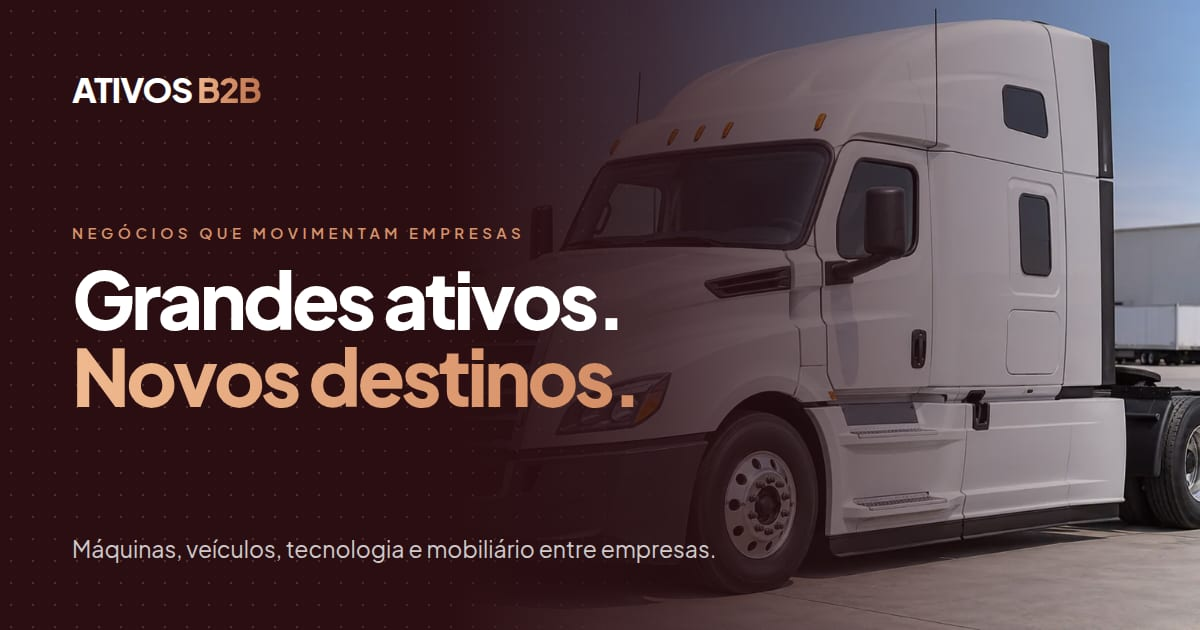
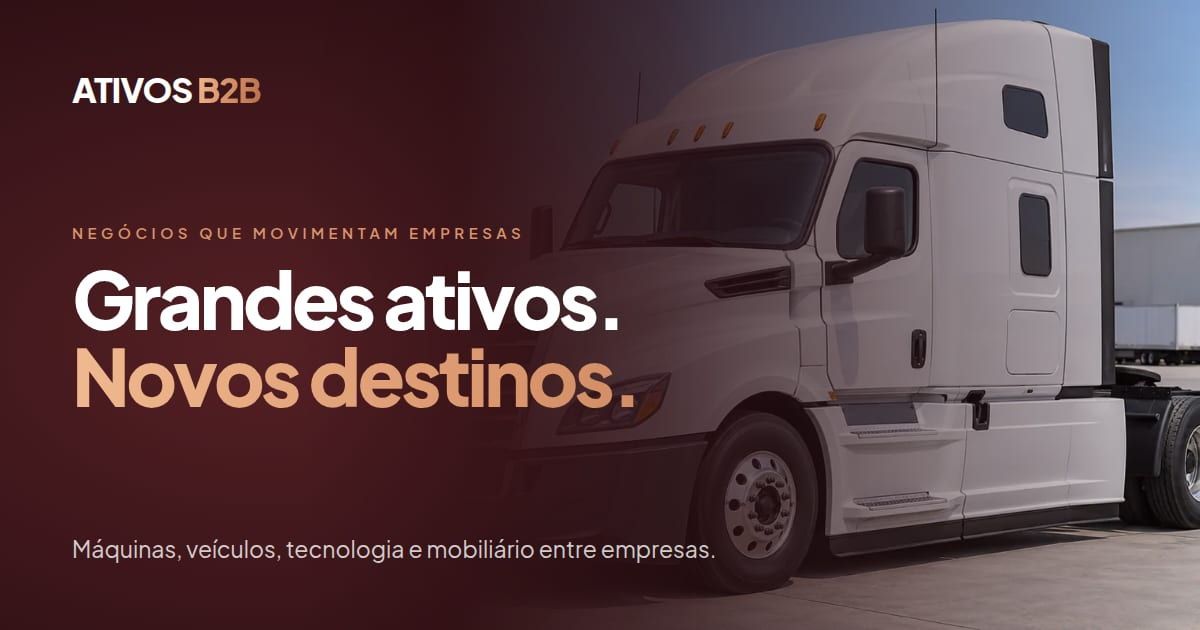
Replace dot grid with a single-colour wine gradient
Every wine band now sits on a soft radial gradient of one fixed colour
(#6B2A2F at varying alpha) that fades before the edges, so neighbouring
bands still meet without a seam. The scattered dot grid is gone from the
hero, state map, companies band, menu and phone layouts. The dotted Brazil
with routes stays only on inner-page intros, the seller sign-up band and the
footer, on desktop.

Claude-Session: https://claude.ai/code/session_0128iv6EyZ438R1rcYkipHrG

Changed region(s): [[0.0, 0.2714, 0.37, 0.8143], [0.1542, 0.8444, 0.2467, 0.8746]]

diff --git a/components/brand/Backdrop.tsx b/components/brand/Backdrop.tsx
@@ -1,24 +1,27 @@
 /**
- * Fundo das faixas em vinho, em duas versões:
+ * Fundo das faixas em vinho.
  *
- * - "rotas": o Brasil em retícula de pontos cruzado por rotas pontilhadas
- *   entre os estados com lotes — ativos seguindo para novos destinos. O
- *   arquivo vem de scripts/generate-backdrop.mjs.
- * - "pontos": só a malha fina de pontos, para onde já há foto ou mapa e o
- *   desenho completo competiria com o conteúdo.
+ * A base é sempre um degradê de uma cor fixa — o vinho `#6B2A2F` em
+ * transparências diferentes sobre o vinho profundo da faixa —, um brilho
+ * suave atrás do texto que some antes das bordas. Por sumir antes das
+ * bordas, duas faixas vizinhas nunca mostram emenda.
  *
- * Nas rotas, o desenho só começa a aparecer do meio da faixa para a direita,
- * para que as linhas nunca cruzem títulos e textos, que ficam à esquerda. No
- * celular, onde o texto ocupa a largura toda, as rotas dão lugar aos pontos.
+ * `variant="rotas"` acrescenta, em telas médias e grandes, o Brasil em
+ * retícula com rotas pontilhadas entre os estados com lotes (arquivo de
+ * scripts/generate-backdrop.mjs). O desenho só aparece do meio da faixa para
+ * a direita, para nunca cruzar títulos e textos. No celular fica só o
+ * degradê.
  *
- * `fade` dissolve o fundo nas bordas: "edges" (padrão) apaga em cima e
- * embaixo, para que faixas vizinhas nunca mostrem emenda; "left" mantém o
- * desenho só à esquerda, onde a abertura tem texto e não foto; "none" deixa
- * o desenho inteiro.
+ * `fade="left"` prende o degradê à esquerda, nas aberturas com foto à
+ * direita, para não tingir a fotografia.
  *
- * O caminho entra por estilo inline, e não em CSS, porque precisa do
+ * O caminho do SVG entra por estilo inline, e não em CSS, porque precisa do
  * basePath da publicação no GitHub Pages.
  */
+const WINE = "107, 42, 47"; // #6B2A2F, brand-600
+
+const GLOW = `radial-gradient(ellipse 70% 58% at 28% 50%, rgba(${WINE}, .6), rgba(${WINE}, 0))`;
+
 const MASKS = {
   edges: "linear-gradient(180deg, transparent, #000 18%, #000 82%, transparent)",
   left: "linear-gradient(90deg, #000 20%, transparent 62%)",
@@ -27,56 +30,49 @@ const MASKS = {
 
 const CLEAR_TEXT_SIDE = "linear-gradient(90deg, transparent 18%, #000 50%)";
 
-const DOTS = "radial-gradient(circle, rgba(224,164,124,.2) 1px, transparent 1.4px)";
+function masked(masks: (string | undefined)[]) {
+  const list = masks.filter((m): m is string => Boolean(m));
+  if (!list.length) return {};
+  const mask = list.join(", ");
+  return {
+    maskImage: mask,
+    WebkitMaskImage: mask,
+    // Várias máscaras valem juntas: só aparece onde todas deixam.
+    maskComposite: "intersect",
+    WebkitMaskComposite: "source-in",
+  };
+}
 
 export function Backdrop({
   className = "",
-  variant = "rotas",
+  variant = "degrade",
   fade = "edges",
 }: {
   className?: string;
-  variant?: "rotas" | "pontos";
+  variant?: "degrade" | "rotas";
   fade?: keyof typeof MASKS;
 }) {
   const base = process.env.NEXT_PUBLIC_BASE_PATH ?? "";
-  const layer = (v: "rotas" | "pontos", extra: string) => {
-    const masks = [MASKS[fade], v === "rotas" ? CLEAR_TEXT_SIDE : undefined].filter(
-      (m): m is string => Boolean(m),
-    );
-    const mask = masks.join(", ");
-    return (
-      <div
-        aria-hidden="true"
-        className={`pointer-events-none absolute inset-0 ${extra} ${className}`}
-        style={{
-          ...(v === "rotas"
-            ? {
-                backgroundImage: `url(${base}/images/rotas.svg)`,
-                backgroundSize: "cover",
-                backgroundPosition: "right center",
-                backgroundRepeat: "no-repeat",
-              }
-            : { backgroundImage: DOTS, backgroundSize: "22px 22px" }),
-          ...(mask
-            ? {
-                maskImage: mask,
-                WebkitMaskImage: mask,
-                // Duas máscaras valem juntas: só aparece onde as duas deixam.
-                maskComposite: "intersect",
-                WebkitMaskComposite: "source-in",
-              }
-            : {}),
-        }}
-      />
-    );
-  };
-
-  if (variant === "pontos") return layer("pontos", "");
-  // No celular o texto ocupa a largura toda: fica só a malha de pontos.
   return (
     <>
-      {layer("pontos", "md:hidden")}
-      {layer("rotas", "hidden md:block")}
+      <div
+        aria-hidden="true"
+        className={`pointer-events-none absolute inset-0 ${className}`}
+        style={{ backgroundImage: GLOW, ...masked([fade === "left" ? MASKS.left : undefined]) }}
+      />
+      {variant === "rotas" && (
+        <div
+          aria-hidden="true"
+          className={`pointer-events-none absolute inset-0 hidden md:block ${className}`}
+          style={{
+            backgroundImage: `url(${base}/images/rotas.svg)`,
+            backgroundSize: "cover",
+            backgroundPosition: "right center",
+            backgroundRepeat: "no-repeat",
+            ...masked([MASKS[fade], CLEAR_TEXT_SIDE]),
+          }}
+        />
+      )}
     </>
   );
 }

diff --git a/app/anunciar/page.tsx b/app/anunciar/page.tsx
@@ -85,7 +85,7 @@ export default function AnunciarPage() {
           <div className="absolute inset-0 bg-gradient-to-t from-brand-900/90 via-transparent to-brand-900/50" />
           <div className="absolute inset-0 bg-brand-900/75 lg:hidden" />
         </div>
-        <Backdrop variant="pontos" fade="left" className="-z-10" />
+        <Backdrop fade="left" className="-z-10" />
 
         <div className="container-content grid gap-12 pb-16 pt-[116px] md:pt-[140px] lg:min-h-[720px] lg:grid-cols-[minmax(0,600px)_minmax(0,1fr)] lg:pb-20">
           <div>
@@ -231,7 +231,7 @@ export default function AnunciarPage() {
         aria-labelledby="titulo-cadastro"
         className="on-dark relative overflow-hidden bg-brand-800 py-16 lg:py-24"
       >
-        <Backdrop />
+        <Backdrop variant="rotas" />
         <BrazilMap className="absolute -left-20 bottom-0 hidden w-[460px] bg-copper-bright/[.1] lg:block" />
         <div className="container-content relative grid items-center gap-10 lg:grid-cols-2 lg:gap-16">
           <div data-reveal>

diff --git a/components/home/CompaniesBand.tsx b/components/home/CompaniesBand.tsx
@@ -32,7 +32,7 @@ export function CompaniesBand() {
       aria-labelledby="titulo-empresas"
       className="on-dark relative overflow-hidden bg-brand-900 py-16 lg:py-24"
     >
-      <Backdrop variant="pontos" />
+      <Backdrop />
       {/* Mesma grade do rodapé logo abaixo: o texto ocupa a primeira coluna e os
           cartões começam exatamente onde começa "Explorar". */}
       <div className="container-content relative grid items-start gap-10 lg:grid-cols-[minmax(0,1.3fr)_repeat(3,minmax(0,.7fr))]">

diff --git a/components/home/Opportunities.tsx b/components/home/Opportunities.tsx
@@ -47,7 +47,7 @@ function SideRail({ side, text, slug }: { side: "left" | "right"; text: string; 
         loading="lazy"
         className="absolute inset-0 size-full object-cover opacity-30 mix-blend-luminosity"
       />
-      <Backdrop variant="pontos" fade="none" />
+      <Backdrop fade="none" />
       <p
         className={`relative mt-14 whitespace-pre-line px-6 text-[11px] font-semibold uppercase leading-5 tracking-[.26em] text-white/75 ${
           side === "right" ? "text-left" : ""

diff --git a/components/home/HeroShowcase.tsx b/components/home/HeroShowcase.tsx
@@ -124,7 +124,7 @@ export function HeroShowcase({ slides }: { slides: ShowcaseSlide[] }) {
         />
         <div className="absolute inset-0 bg-brand-900/70 lg:hidden" />
       </div>
-      <Backdrop variant="pontos" fade="left" className="-z-10" />
+      <Backdrop fade="left" className="-z-10" />
 
       <div className="container-content grid gap-10 pb-36 pt-[116px] md:pt-[140px] lg:min-h-[760px] lg:grid-cols-[minmax(0,560px)_minmax(0,1fr)] lg:pb-40">
         <div className="relative">

diff --git a/components/layout/Footer.tsx b/components/layout/Footer.tsx
@@ -43,7 +43,7 @@ const SOCIAIS = [
 export function Footer() {
   return (
     <footer className="on-dark relative overflow-hidden border-t border-white/[.07] bg-brand-900 text-white/70">
-      <Backdrop className="opacity-60" />
+      <Backdrop variant="rotas" className="opacity-60" />
 
       <div className="container-content relative grid gap-10 pb-10 pt-14 lg:grid-cols-[minmax(0,1.3fr)_repeat(3,minmax(0,.7fr))] lg:pt-20">
         <div>

diff --git a/components/layout/PageIntro.tsx b/components/layout/PageIntro.tsx
@@ -19,7 +19,7 @@ export function PageIntro({
 }) {
   return (
     <section className="on-dark relative overflow-hidden bg-brand-900 text-white">
-      <Backdrop />
+      <Backdrop variant="rotas" />
       <div className="container-content relative pb-10 pt-6 lg:pb-12">
         <nav aria-label="Trilha de navegação" className="text-[13px] text-white/65">
           <Link href="/" className="hover:text-white hover:underline">

diff --git a/components/home/StatesExplorer.tsx b/components/home/StatesExplorer.tsx
@@ -33,7 +33,7 @@ export function StatesExplorer() {
       className="estados on-dark relative overflow-hidden bg-brand-900 py-16 lg:py-24"
     >
       <style dangerouslySetInnerHTML={{ __html: css }} />
-      <Backdrop variant="pontos" />
+      <Backdrop />
 
       <div className="container-content relative grid items-center gap-12 lg:grid-cols-[minmax(0,1fr)_minmax(0,1fr)] lg:gap-16">
         <div>

diff --git a/components/layout/MainMenu.tsx b/components/layout/MainMenu.tsx
@@ -90,7 +90,7 @@ export function MainMenu() {
           id="menu-principal"
           className="fixed inset-x-0 bottom-0 top-[68px] z-40 animate-fade-in overflow-y-auto bg-brand-900 md:top-[76px]"
         >
-          <Backdrop variant="pontos" />
+          <Backdrop />
           <div className="container-content relative py-6">
             <nav aria-label="Principal">
               <ul>

diff --git a/app/loja/[slug]/page.tsx b/app/loja/[slug]/page.tsx
@@ -57,7 +57,7 @@ export default async function LojaPage({ params }: PageProps) {
             <div className="absolute inset-0 bg-brand-900/70 lg:hidden" />
           </div>
         )}
-        <Backdrop variant="pontos" fade="left" className="-z-10" />
+        <Backdrop fade="left" className="-z-10" />
 
         <div className="container-content py-10 lg:py-14">
           <nav

diff --git a/app/lojas/page.tsx b/app/lojas/page.tsx
@@ -34,7 +34,7 @@ export default function LojasPage() {
   return (
     <>
       <section className="on-dark relative overflow-hidden bg-brand-900 py-12 text-white lg:py-16">
-        <Backdrop />
+        <Backdrop variant="rotas" />
         <div className="container-content relative">
           <p className="kicker-on-dark animate-rise">Lojas</p>
           <h1

diff --git a/README.md b/README.md
@@ -58,9 +58,9 @@ Outros arquivos gerados por script, versionados já prontos:
 - `public/images/rotas.svg` — fundo das faixas vinho
   (`node scripts/generate-backdrop.mjs`, determinístico): o Brasil em retícula
   de pontos, com rotas pontilhadas entre os estados que têm lotes. O
-  componente `Backdrop` protege o lado do texto (o desenho só aparece do meio
-  para a direita), dissolve o fundo nas bordas de cada faixa e, no celular,
-  troca as rotas por uma malha fina de pontos.
+  componente `Backdrop` põe por baixo de toda faixa um degradê de uma cor fixa
+  (o vinho `#6B2A2F` em transparências), protege o lado do texto (as rotas só
+  aparecem do meio para a direita) e, no celular, deixa só o degradê.
 - `lib/brazilMap.ts` — traçado das 27 UFs para o mapa clicável da página
   inicial (`node scripts/generate-brazil-map.mjs`, a partir de `@svg-maps/brazil`).
 - `public/images/states/*.webp` — bandeiras das UFs, rasterizadas de
@@ -155,8 +155,9 @@ empresas).
   (`scripts/check-contrast.mjs`).
 - **Tipografia**: Plus Jakarta Sans em extrabold com tracking negativo nos
   títulos; Roboto Mono reservada a códigos e números tabulares.
-- **Fundo**: o Brasil em pontos de cobre, cruzado por rotas entre os estados
-  com lotes — “novos destinos”. Onde já há foto ou mapa, só a malha de pontos.
+- **Fundo**: degradê de uma cor fixa (vinho `#6B2A2F`) em todas as faixas. Nas
+  aberturas internas e no rodapé, o Brasil em pontos de cobre, cruzado por
+  rotas entre os estados com lotes — “novos destinos”.
   Prompts para gerar versões fotográficas: [`docs/design/PROMPTS_IMAGENS.md`](./docs/design/PROMPTS_IMAGENS.md).
 - **Estados**: a seção “Ativos em todo o Brasil” liga mapa e bandeiras ao
   catálogo filtrado por UF; passar o ponteiro numa bandeira acende o estado no
